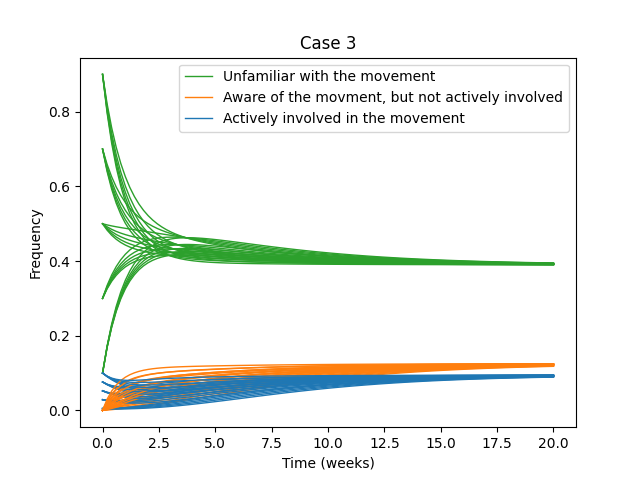
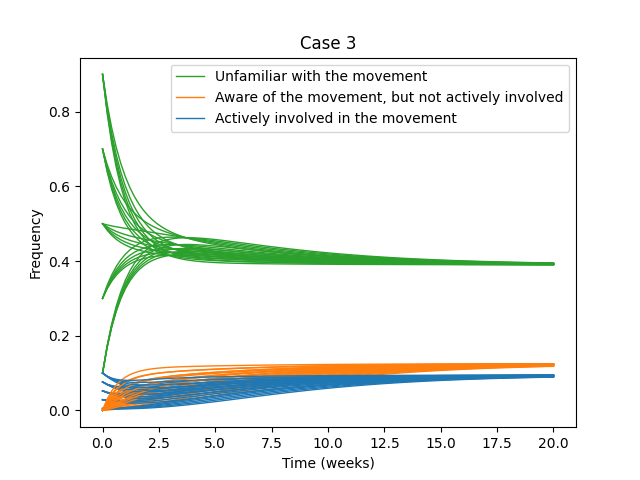
Fixed typo

Changed region(s): [[0.3125, 0.125, 0.9062, 0.2812], [0.25, 0.1562, 0.2812, 0.2812]]

diff --git a/simulation/model.py b/simulation/model.py
@@ -85,7 +85,7 @@ def simulate_broad(k1_vals=default_k_vals,
 
 
 def add_labels():
-    plt.legend(["Unfamiliar with the movement", "Aware of the movment, but not actively involved", "Actively involved in the movement"])
+    plt.legend(["Unfamiliar with the movement", "Aware of the movement, but not actively involved", "Actively involved in the movement"])
     plt.ylabel("Frequency")
     plt.xlabel("Time (weeks)")
 
